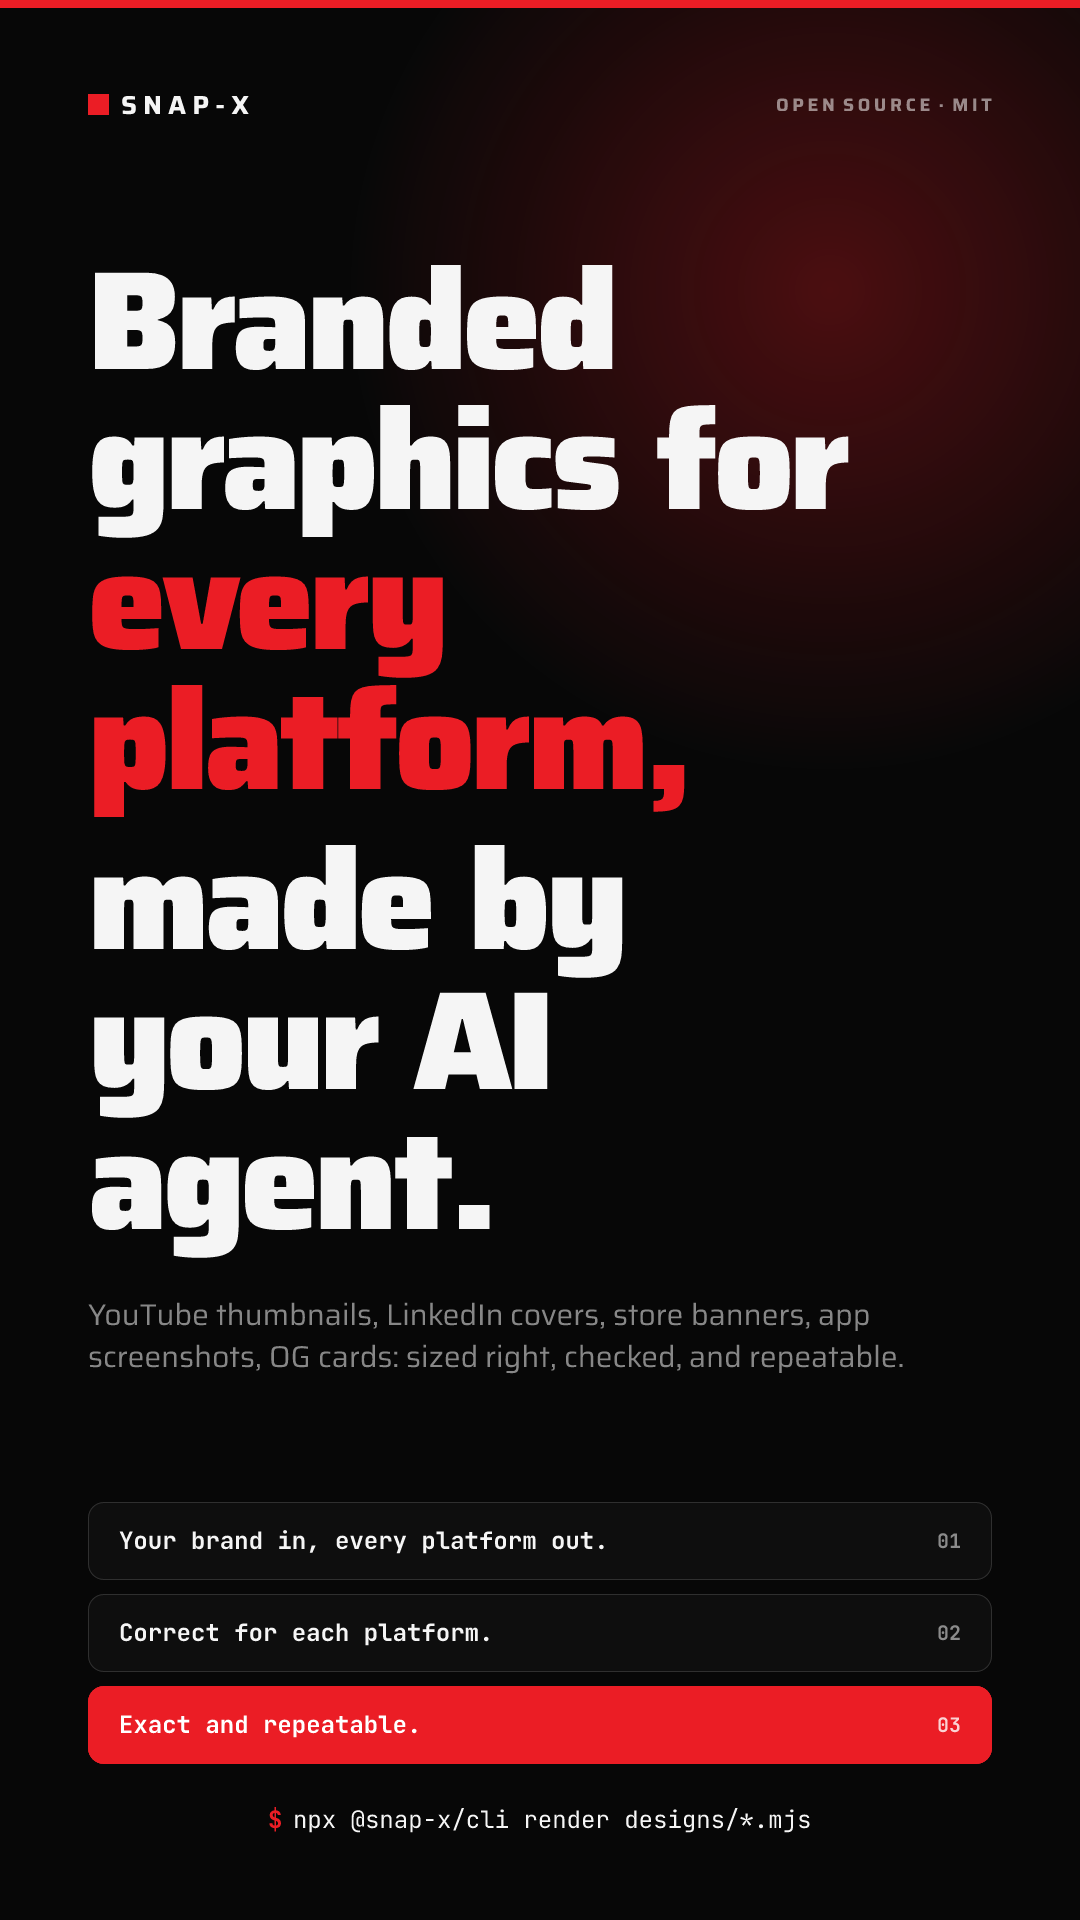
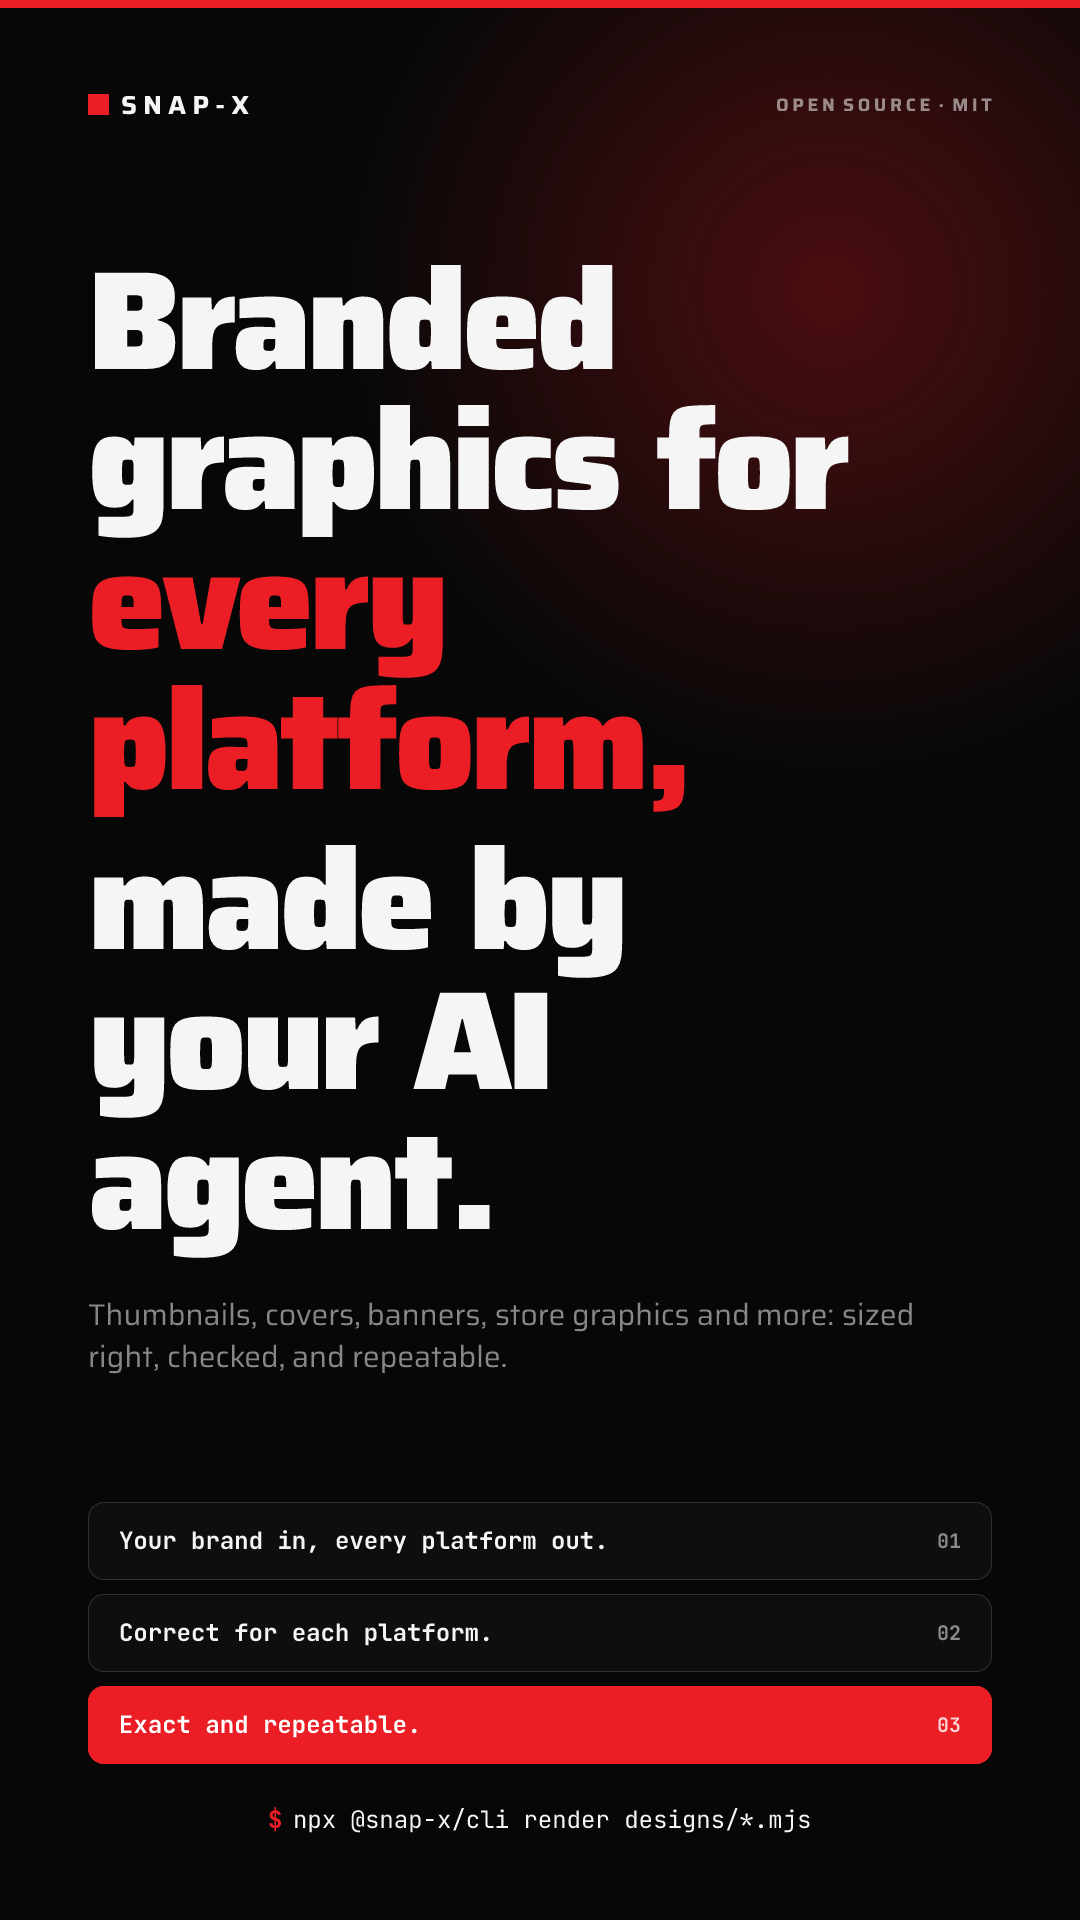
docs: Phase 0 copy update (improvements.md) — descriptions and subline
Ravi changed the positioning copy after plan 1 (repositioning.md) was
written: descriptions no longer list specific platforms, since a list
reads as the complete scope. Platform names live in keywords (already
present in root/plugin.json — no changes needed there) and in the
README/site gallery and use-cases table, presented as examples.

- New description everywhere it's listed in improvements.md §0.1:
  root package.json, .claude-plugin/plugin.json, the marketplace.json
  plugin entry (its top-level description was already correct and
  untouched), and web/index.html's meta description + og:description.
- packages/cli's description and README line had a closed platform
  list ("thumbnails, covers, banners, store graphics, OG cards)") —
  appended "and more" per §0.1's rule for lists that read as complete.
  packages/mcp and packages/core don't list platforms; left as is.
- New subline ("Thumbnails, covers, banners, store graphics and more:
  sized right, checked, and repeatable.") everywhere the plan-1 subline
  appeared: README hero, website hero, and examples/snap-x's
  readme-card.mjs/poster.mjs (og/cover/thumbnail never had it). Checked
  and re-rendered examples/snap-x, viewed every changed PNG, and reran
  snap-x guides on cover + thumbnail (unchanged output, confirmed via
  git diff — neither design's text changed).
- Root/plugin keywords already covered every platform term §0.3 asks
  for (youtube-thumbnail, linkedin-banner, app-store-screenshots,
[…]

Changed region(s): [[0.0917, 0.6562, 0.825, 0.7188]]

diff --git a/web/index.html b/web/index.html
@@ -4,9 +4,9 @@
   <meta charset="UTF-8" />
   <meta name="viewport" content="width=device-width, initial-scale=1.0" />
   <title>snap-x — Branded graphics for every platform, made by your AI agent</title>
-  <meta name="description" content="YouTube thumbnails, LinkedIn covers, store banners, app screenshots and OG cards, made by your AI agent. Sized right, checked, repeatable." />
+  <meta name="description" content="Branded graphics for every platform, made by your AI agent. Exact sizes, real logos, safe zones checked. Claude Code plugin, MCP server and CLI." />
   <meta property="og:title" content="snap-x — Branded graphics for every platform, made by your AI agent" />
-  <meta property="og:description" content="YouTube thumbnails, LinkedIn covers, store banners, app screenshots and OG cards, made by your AI agent. Sized right, checked, repeatable." />
+  <meta property="og:description" content="Branded graphics for every platform, made by your AI agent. Exact sizes, real logos, safe zones checked. Claude Code plugin, MCP server and CLI." />
   <meta property="og:type" content="website" />
   <meta property="og:image" content="images/snapx-og.png" />
   <meta name="twitter:card" content="summary_large_image" />
@@ -918,7 +918,7 @@
   <h1>Branded graphics for<br /><em>every platform</em>, made by your AI agent.</h1>
 
   <p class="hero-sub">
-    YouTube thumbnails, LinkedIn covers, store banners, app screenshots, OG cards:
+    Thumbnails, covers, banners, store graphics and more:
     sized right, checked, and repeatable.
   </p>
 

diff --git a/CHANGELOG.md b/CHANGELOG.md
@@ -2,6 +2,7 @@
 
 ## Unreleased
 
+- **Copy update:** descriptions (root, plugin, marketplace, website) no longer list specific platforms as if it were the full scope — platform names moved to keywords and to the README/site gallery, presented as examples. Subline shortened to "Thumbnails, covers, banners, store graphics and more: sized right, checked, and repeatable." everywhere it appeared
 - **Repositioned:** "Branded graphics for every platform, made by your AI agent." — the same headline and subline now appear in README, website, and every package/plugin/manifest description
 - README rewritten around the new positioning: a real-output gallery, Claude Code install in the first screenful, "How it works," "Correct for every platform," "Exact and repeatable," a use-cases table and an FAQ — all previously-existing technical content (design-file format, Satori rules, fonts, CLI, logos/images) kept intact under "Write designs by hand"
 - Website rewritten to match: new hero, four new sections (Problem, Use cases, Exact and repeatable, FAQ), and two false claims fixed ("Pure JSX"/the code sample, and "no imports")

diff --git a/packages/cli/README.md b/packages/cli/README.md
@@ -2,7 +2,7 @@
 
 Branded graphics for every platform, made by your AI agent.
 
-The `snap-x` command: render and check self-contained Satori `.mjs` design files into platform-ready PNGs (thumbnails, covers, banners, store graphics, OG cards). Exact sizes, safe-zone guides, no browser.
+The `snap-x` command: render and check self-contained Satori `.mjs` design files into platform-ready PNGs (thumbnails, covers, banners, store graphics, OG cards and more). Exact sizes, safe-zone guides, no browser.
 
 ```bash
 npx @snap-x/cli check  designs/*.mjs

diff --git a/README.md b/README.md
@@ -1,7 +1,7 @@
 # snap-x
 
 **Branded graphics for every platform, made by your AI agent.**
-YouTube thumbnails, LinkedIn covers, store banners, app screenshots, OG cards: sized right, checked, and repeatable.
+Thumbnails, covers, banners, store graphics and more: sized right, checked, and repeatable.
 
 <table>
 <tr>
